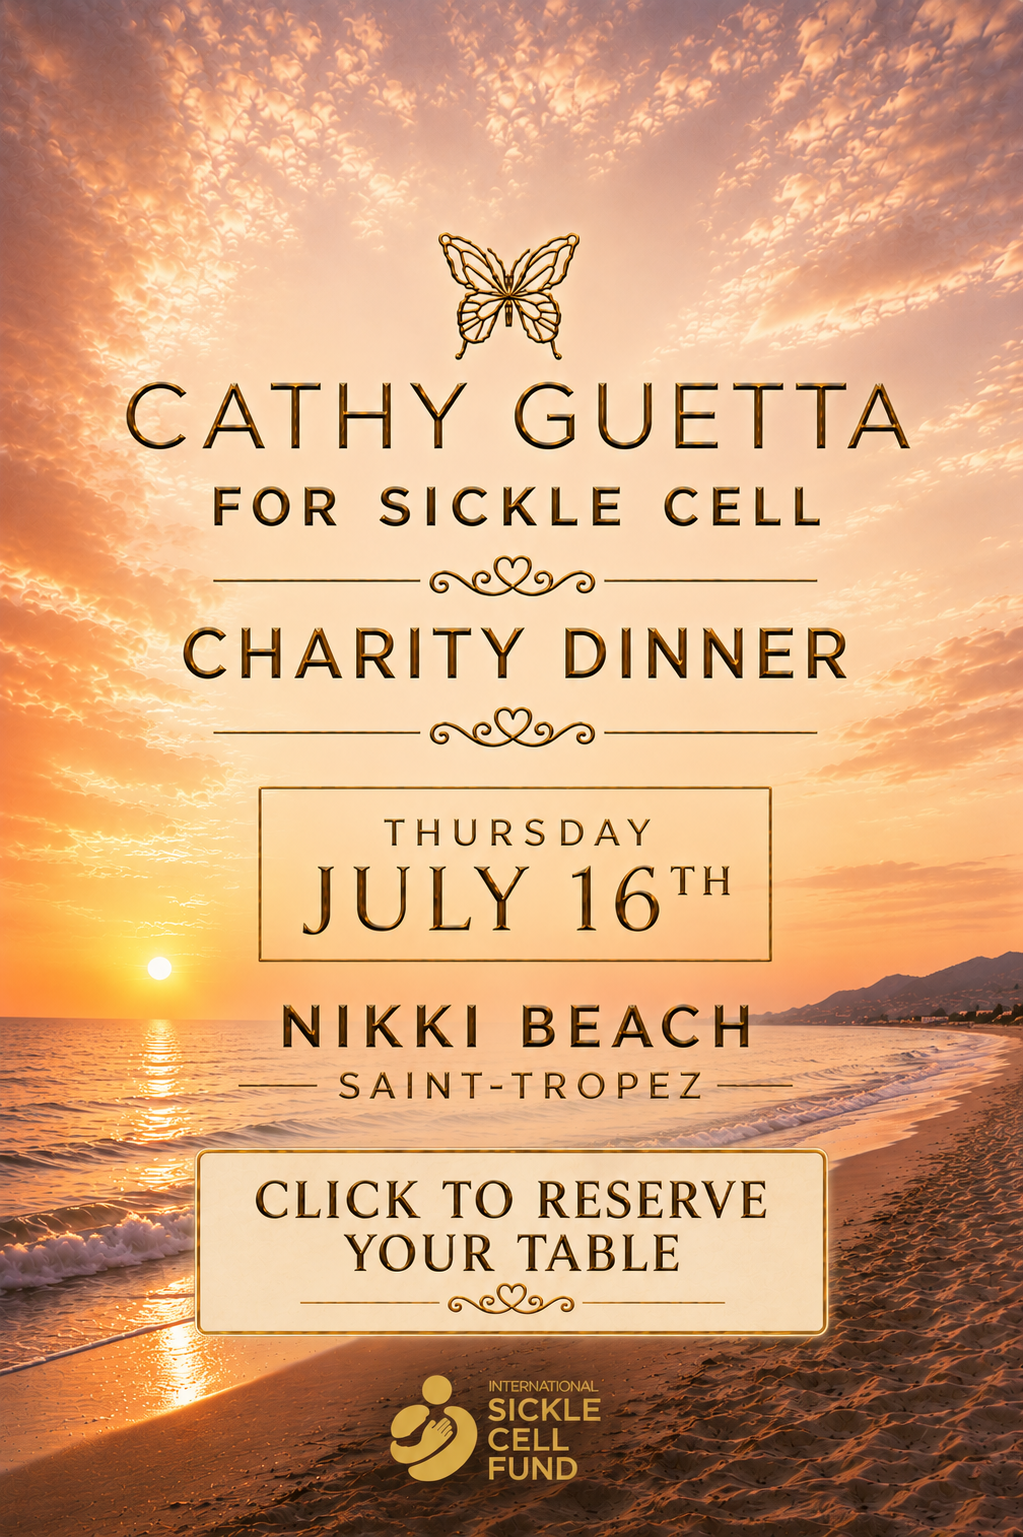
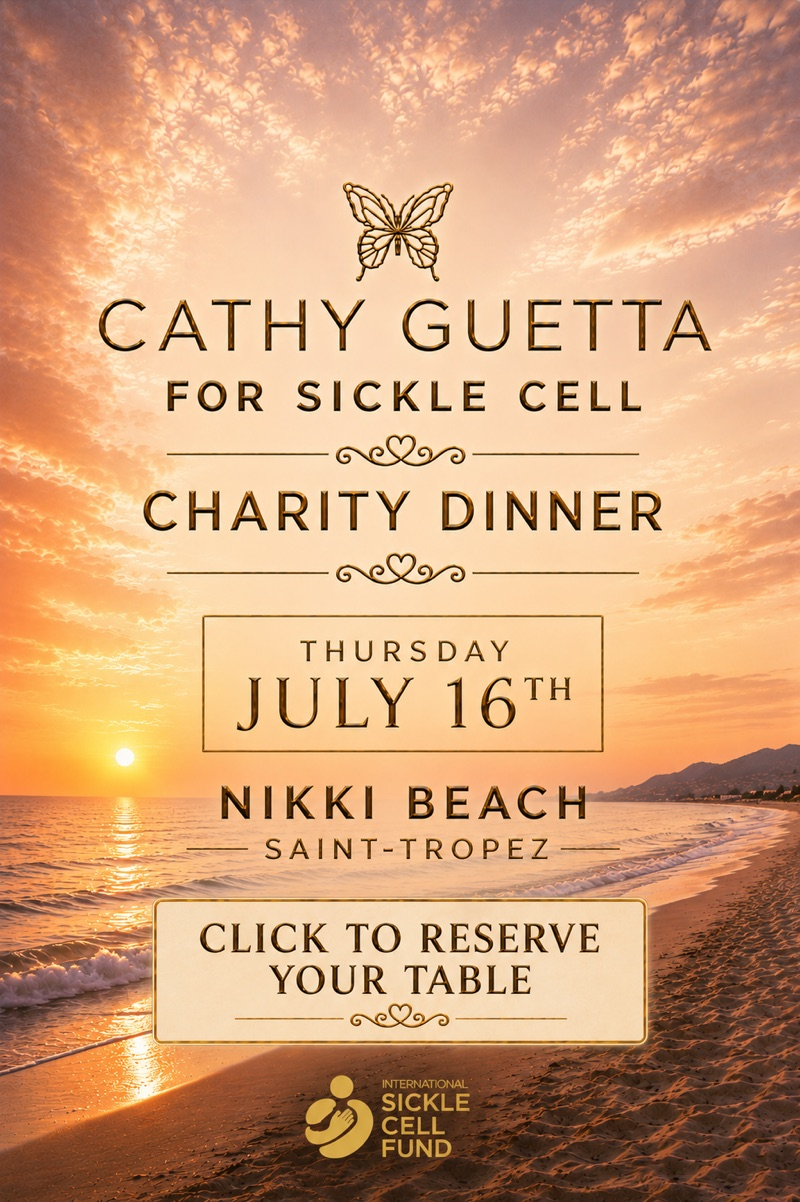
Perf: Optimize Nikki Beach OG image (2.1MB PNG → 293KB JPEG)
Convert the mislabeled PNG to a real JPEG at 800x1202 quality 82
so WhatsApp and other social previews under the 600KB threshold
can display the flyer. Update OG dimensions to match.

Changed region(s): [[0.4375, 0.1539, 0.5625, 0.2155], [0.125, 0.6772, 0.1562, 0.7696], [0.1562, 0.8311, 0.1875, 0.8927]]

diff --git a/src/app/donate/layout.tsx b/src/app/donate/layout.tsx
@@ -17,8 +17,8 @@ export const metadata: Metadata = {
     images: [
       {
         url: '/images/events/nikki-beach-26.jpg',
-        width: 1023,
-        height: 1537,
+        width: 800,
+        height: 1202,
         alt: 'ISC Fund Gala 2026 — Nikki Beach flyer',
       },
     ],

diff --git a/src/app/layout.tsx b/src/app/layout.tsx
@@ -37,8 +37,8 @@ export const metadata: Metadata = {
     images: [
       {
         url: '/images/events/nikki-beach-26.jpg',
-        width: 1023,
-        height: 1537,
+        width: 800,
+        height: 1202,
         alt: 'ISC Fund Gala 2026 — Nikki Beach flyer',
       },
     ],
